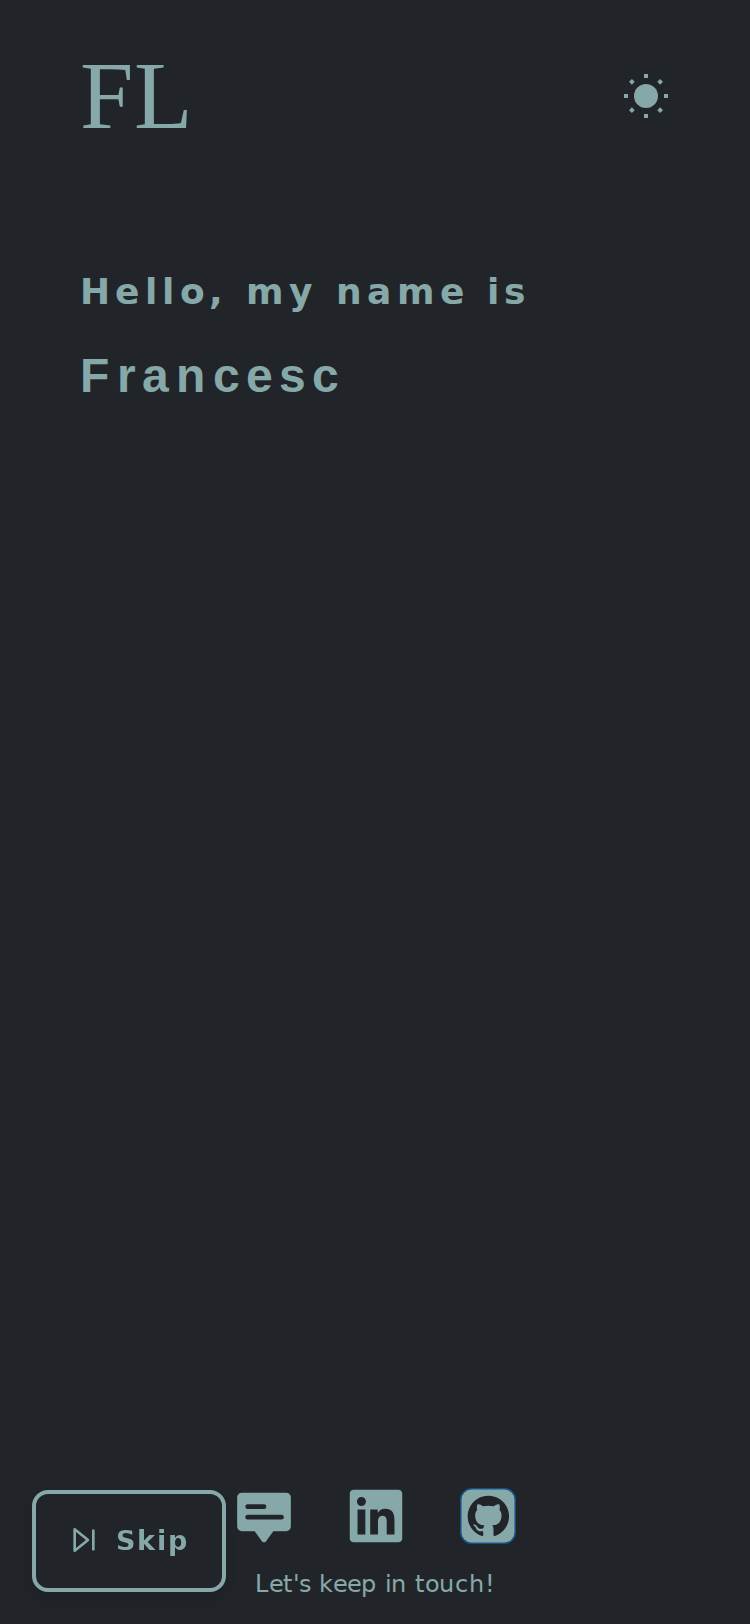
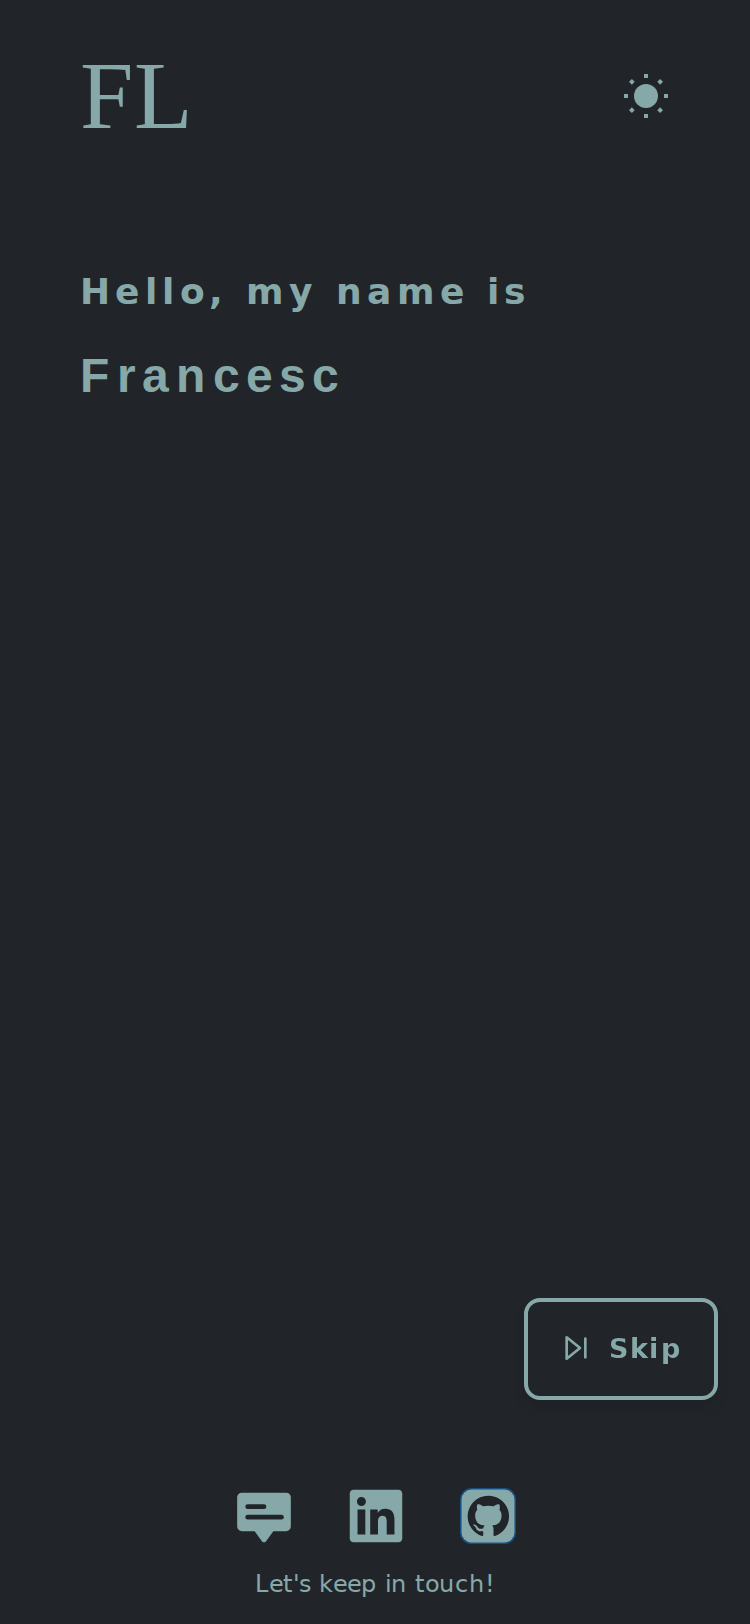
Move skip button to bottom-right and fix mobile footer overlap
Changes:
- Desktop: Moved skip button from bottom-left to bottom-right
- Mobile: Increased bottom spacing from 1rem to 7rem to prevent overlap with footer
- Button now positioned properly on both device types
- Updated screenshots showing new positioning

diff --git a/app/src/app/components/main/main.component.scss b/app/src/app/components/main/main.component.scss
@@ -67,7 +67,7 @@
 .skip-button {
   position: fixed;
   bottom: 2rem;
-  left: 2rem;
+  right: 2rem;
   display: flex;
   align-items: center;
   gap: 0.5rem;
@@ -105,10 +105,10 @@
     font-family: inherit;
   }
 
-  // Mobile responsiveness
+  // Mobile responsiveness - increased bottom spacing to avoid footer overlap
   @media (max-width: 768px) {
-    bottom: 1rem;
-    left: 1rem;
+    bottom: 7rem;
+    right: 1rem;
     padding: 0.6rem 1rem;
     font-size: 0.85rem;
 